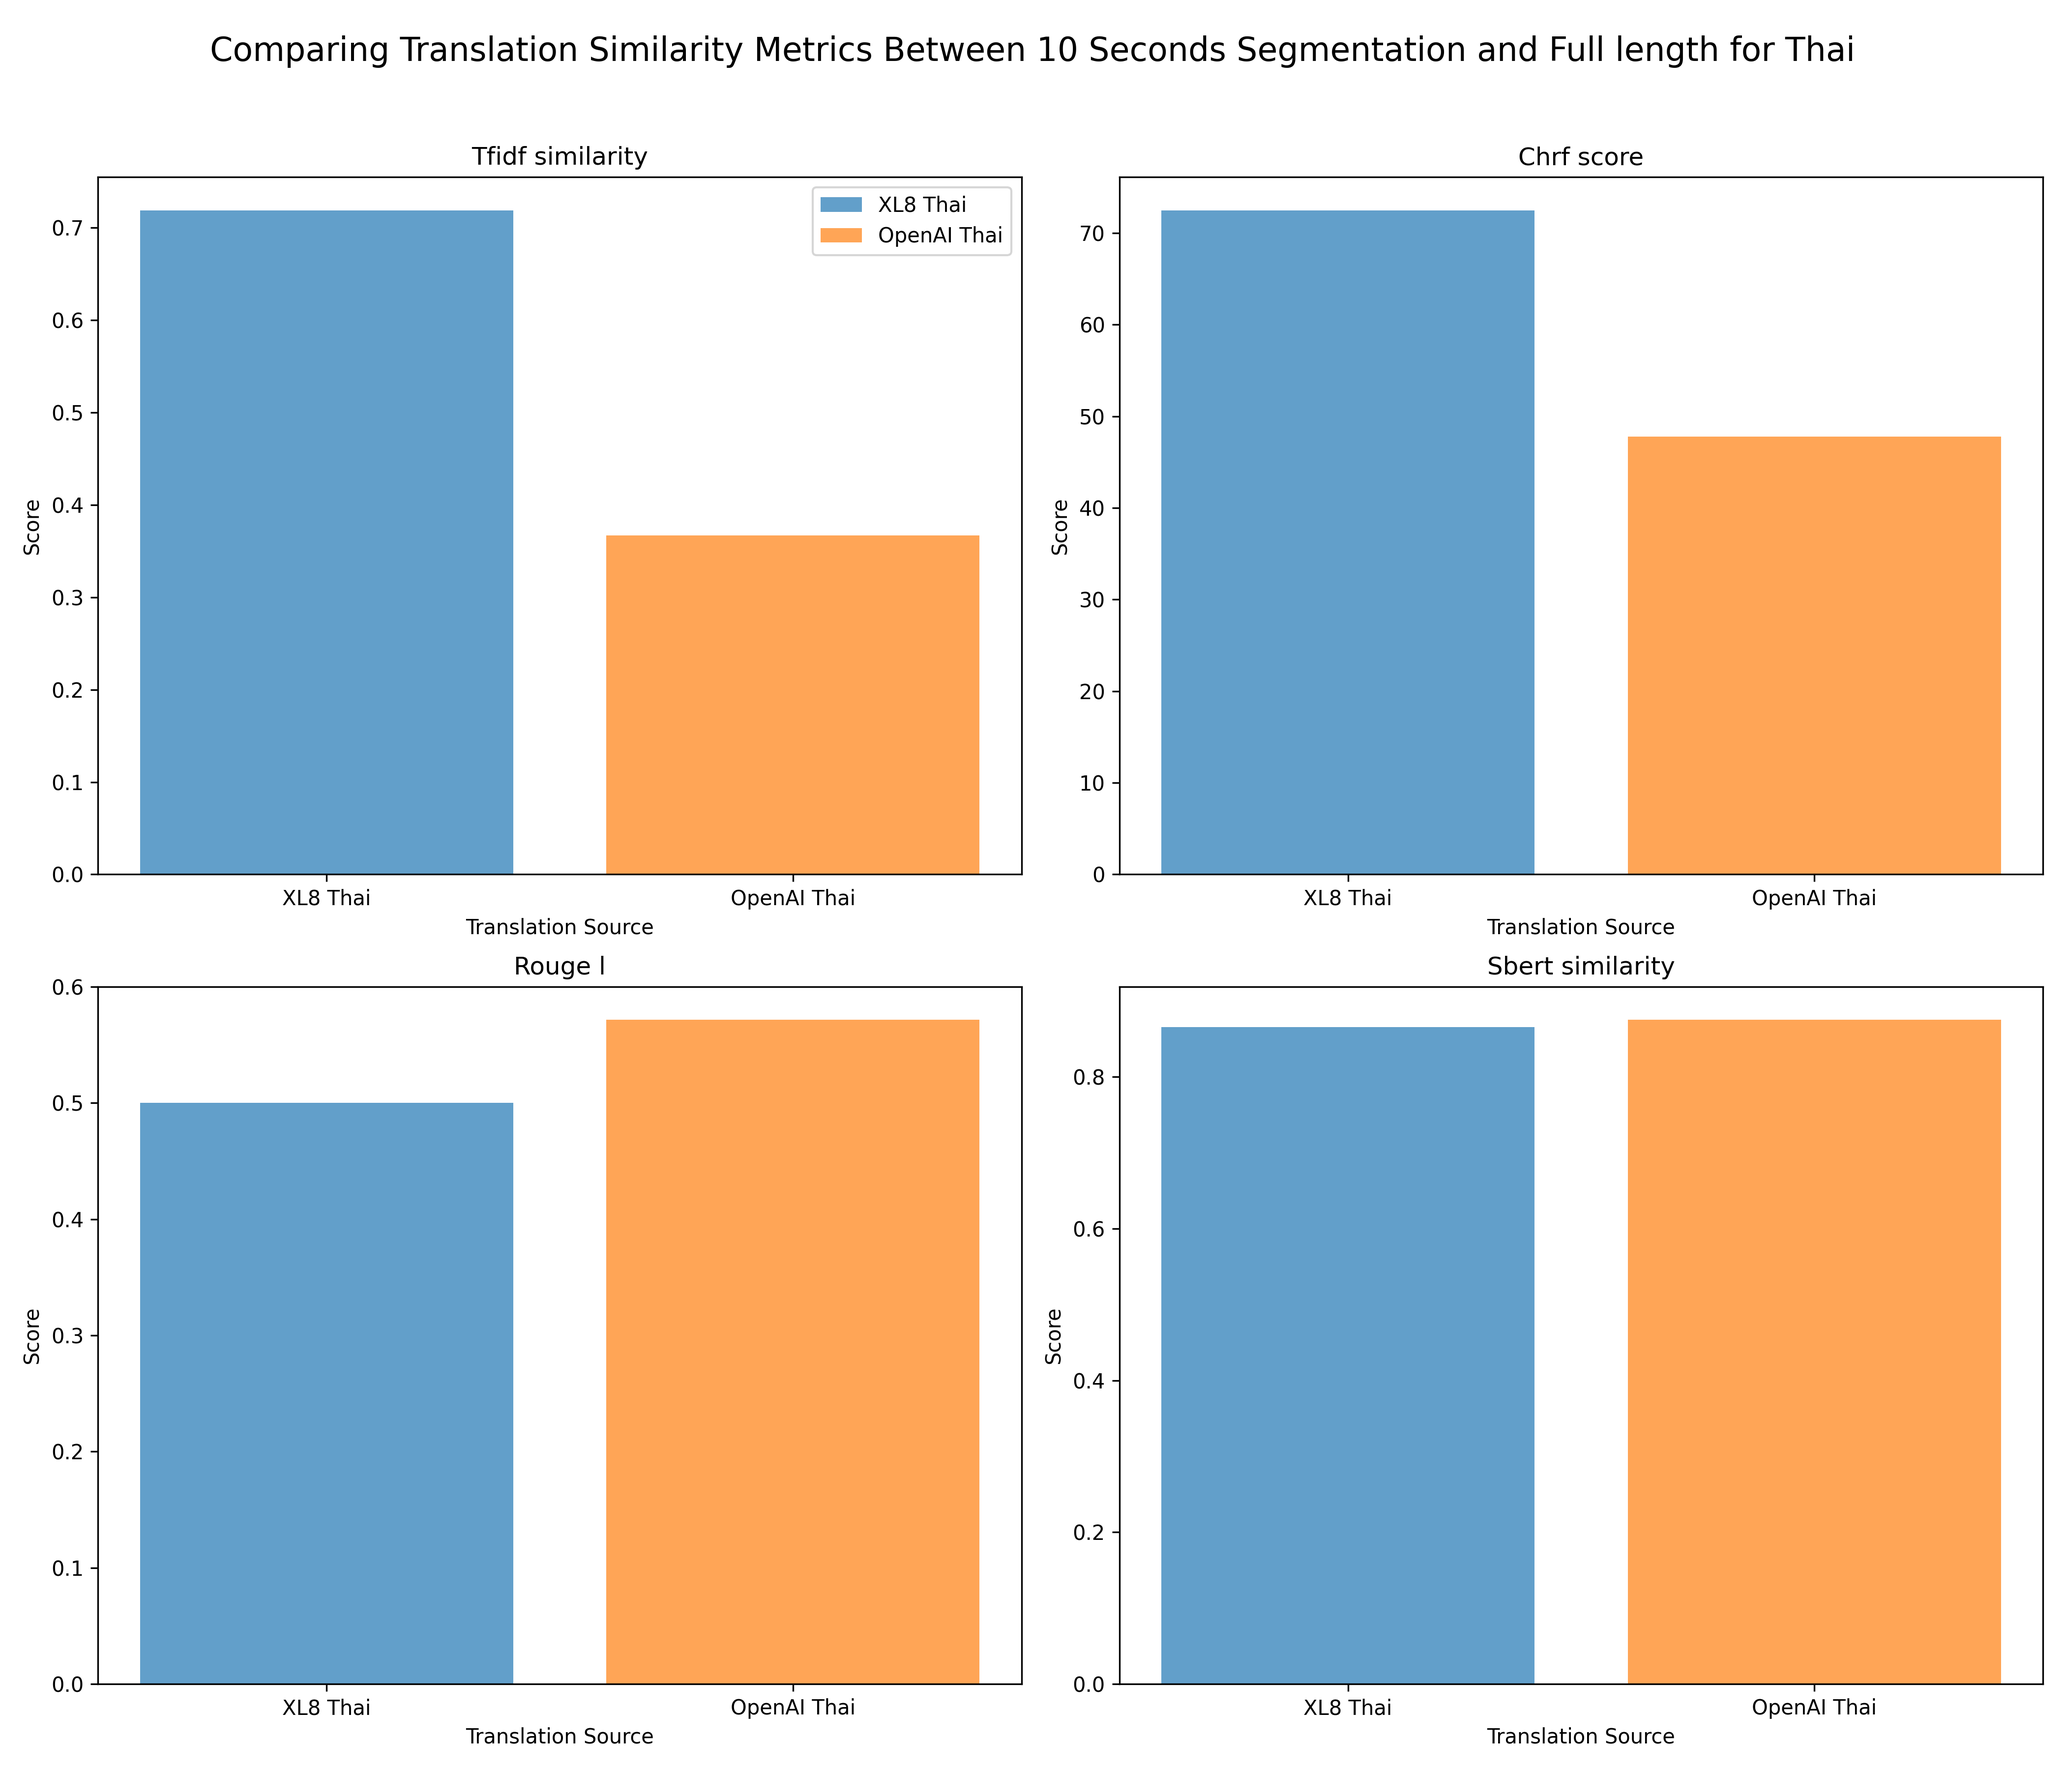
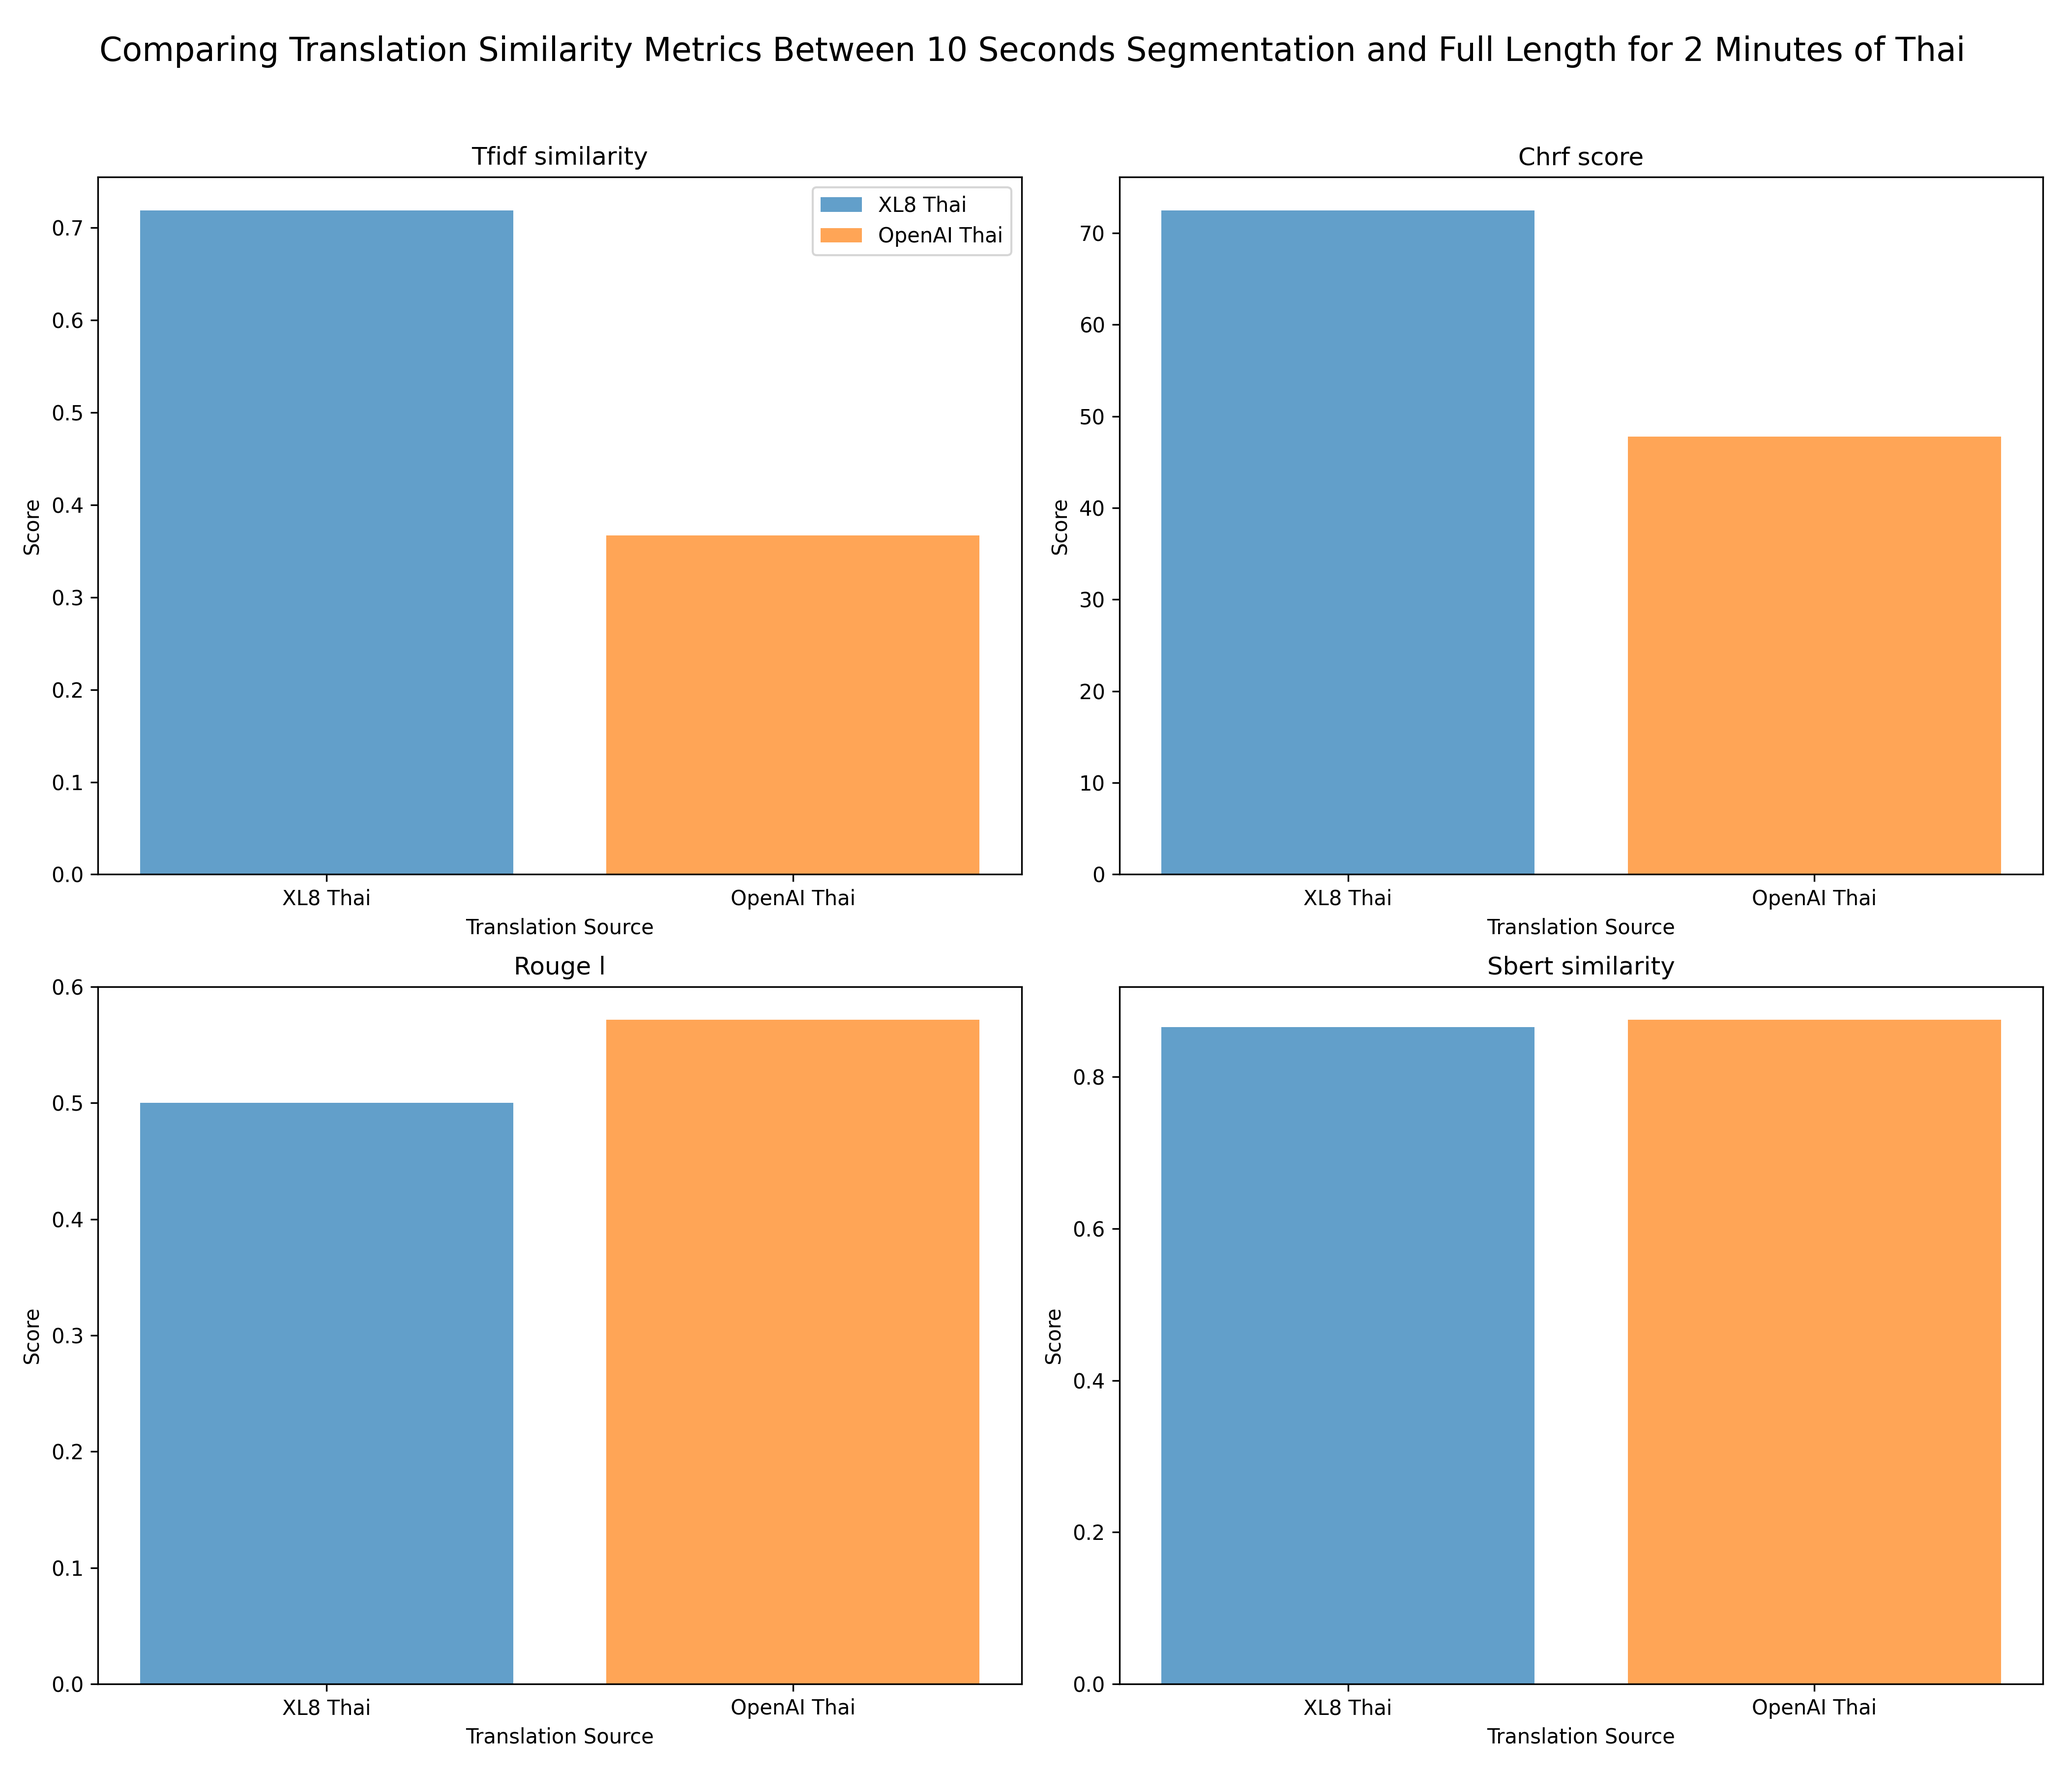
chore: fix typo

Changed region(s): [[0.0936, 0.0, 0.5614, 0.0311], [0.5926, 0.0, 0.8733, 0.0311], [0.9045, 0.0, 0.9357, 0.0311]]

diff --git a/benchmarking/benchmark_experiment2_visualization.py b/benchmarking/benchmark_experiment2_visualization.py
@@ -24,7 +24,7 @@ def visualize_and_save_metrics(dfs, output_folder):
 
     for language in languages:
         fig, axes = plt.subplots(2, 2, figsize=(14, 12))  # 2 rows, 2 columns grid
-        fig.suptitle(f"Comparing Translation Similarity Metrics Between 10 Seconds Segmentation and Full length for {language}", fontsize=16)
+        fig.suptitle(f"Comparing Translation Similarity Metrics Between 10 Seconds Segmentation and Full Length for 2 Minutes of {language}", fontsize=16)
 
         # Filter DataFrames for the current language
         language_dfs = [(df, label) for df, label in dfs if language in label]
